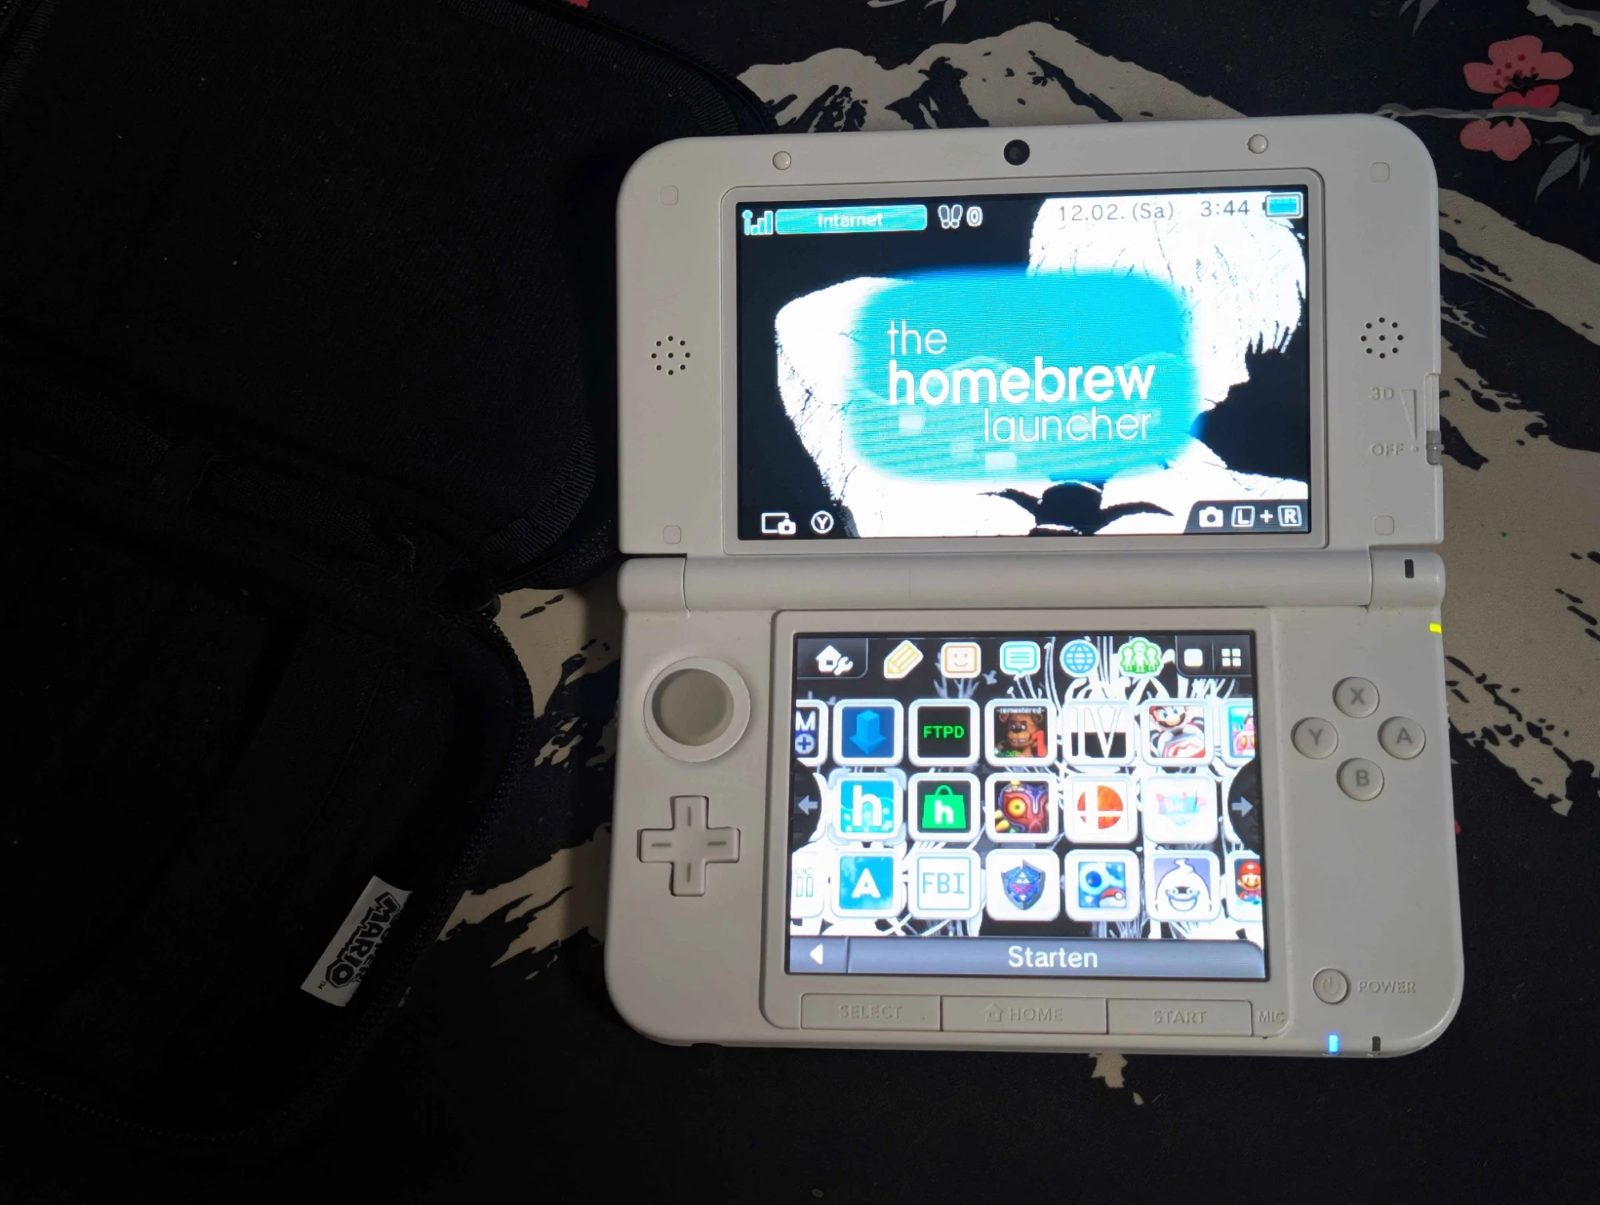
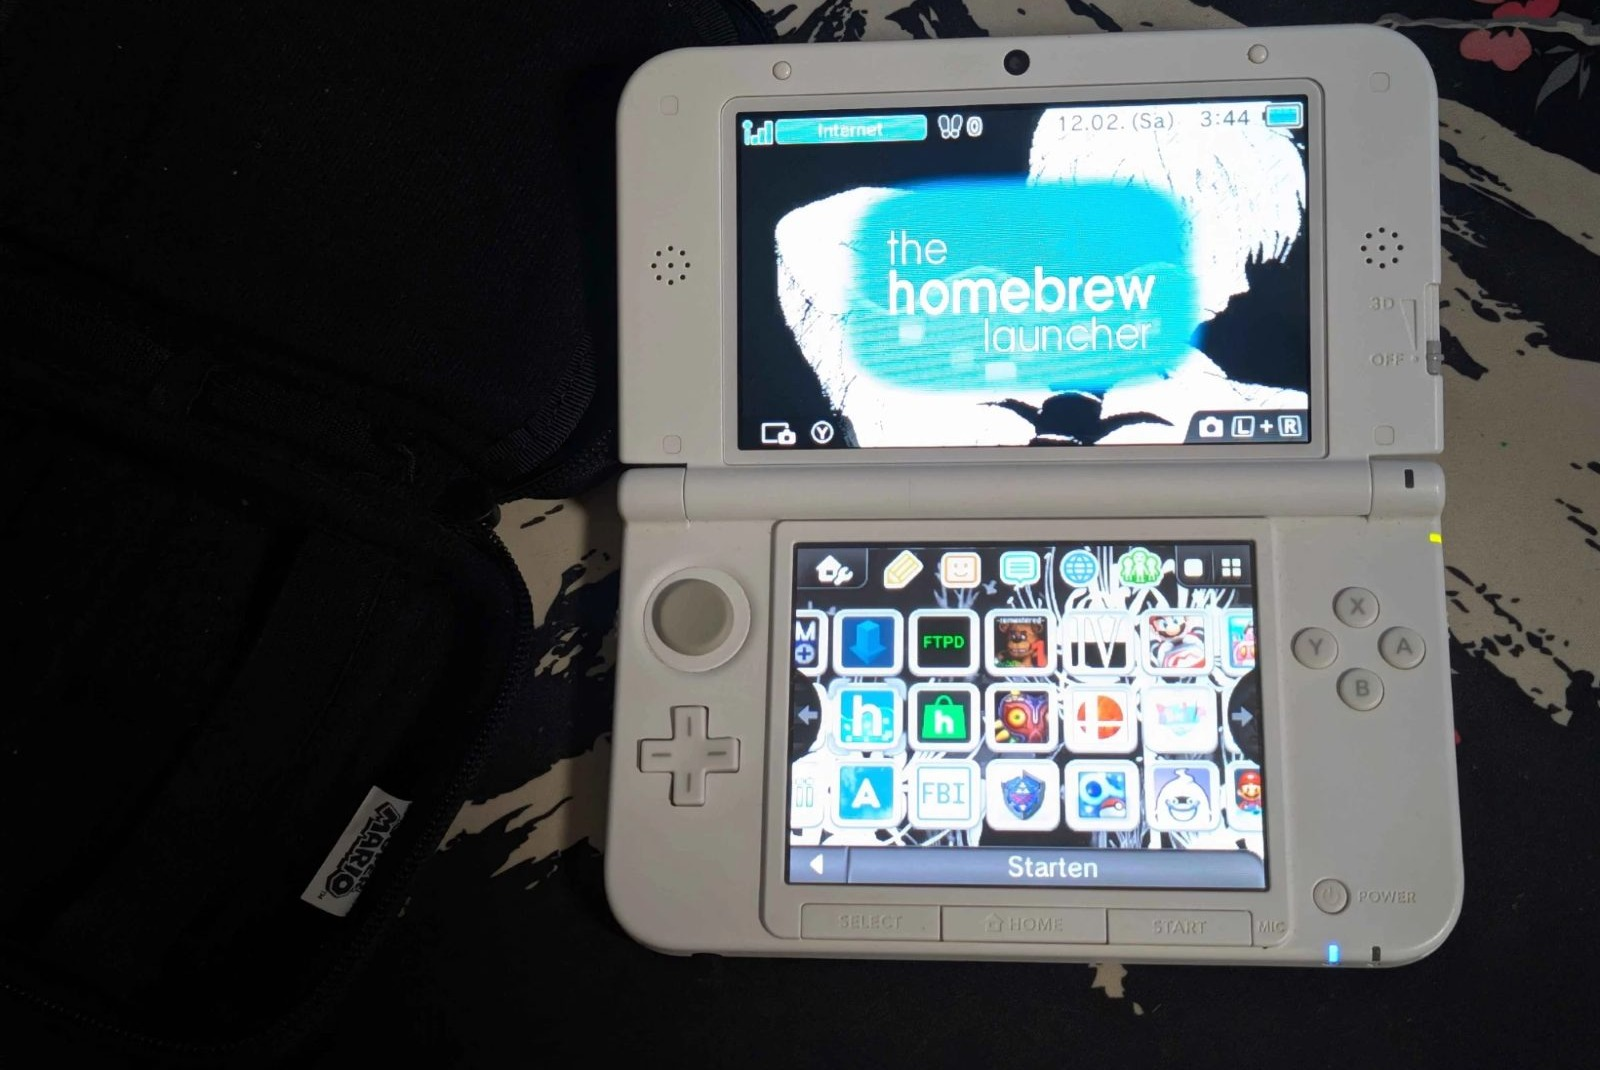
Modding-Fotos oben und unten zugeschnitten
Der dunkle Tisch um Switch und 3DS nahm mehr Platz ein als die Geraete
selbst. format bleibt 'frei', damit die Kachel die eigene Proportion
des Bildes behaelt statt in einen festen Rahmen mit Balken gezwungen
zu werden.

diff --git a/public/js/app.js b/public/js/app.js
@@ -451,12 +451,12 @@ const MEDIA={
     ],
     platzhalter:{anzahl:1}
   },
-  /* Eigene Aufnahmen der beiden Geraete. Beide lagen quer im Foto und
-     sind hier aufgerichtet; die Bildschirme sollen lesbar sein, das ist
-     der ganze Zweck der Bilder. */
+  /* Eigene Aufnahmen der beiden Geraete, oben und unten leicht
+     zugeschnitten — der dunkle Tisch drumherum nahm sonst mehr Platz ein
+     als die Geraete selbst. format:'frei' bleibt: die Kachel nimmt die
+     eigene Proportion des Bildes an, statt sie in einen festen 16:10-
+     Rahmen zu zwingen und dabei Balken zu riskieren. */
   modding:{
-    // 4:3 statt 16:10 — in einer festen Kachel bekaemen die Fotos sonst
-    // schwarze Balken an den Seiten.
     format:'frei',
     shots:[
       {src:'media/modding-switch.jpg',
